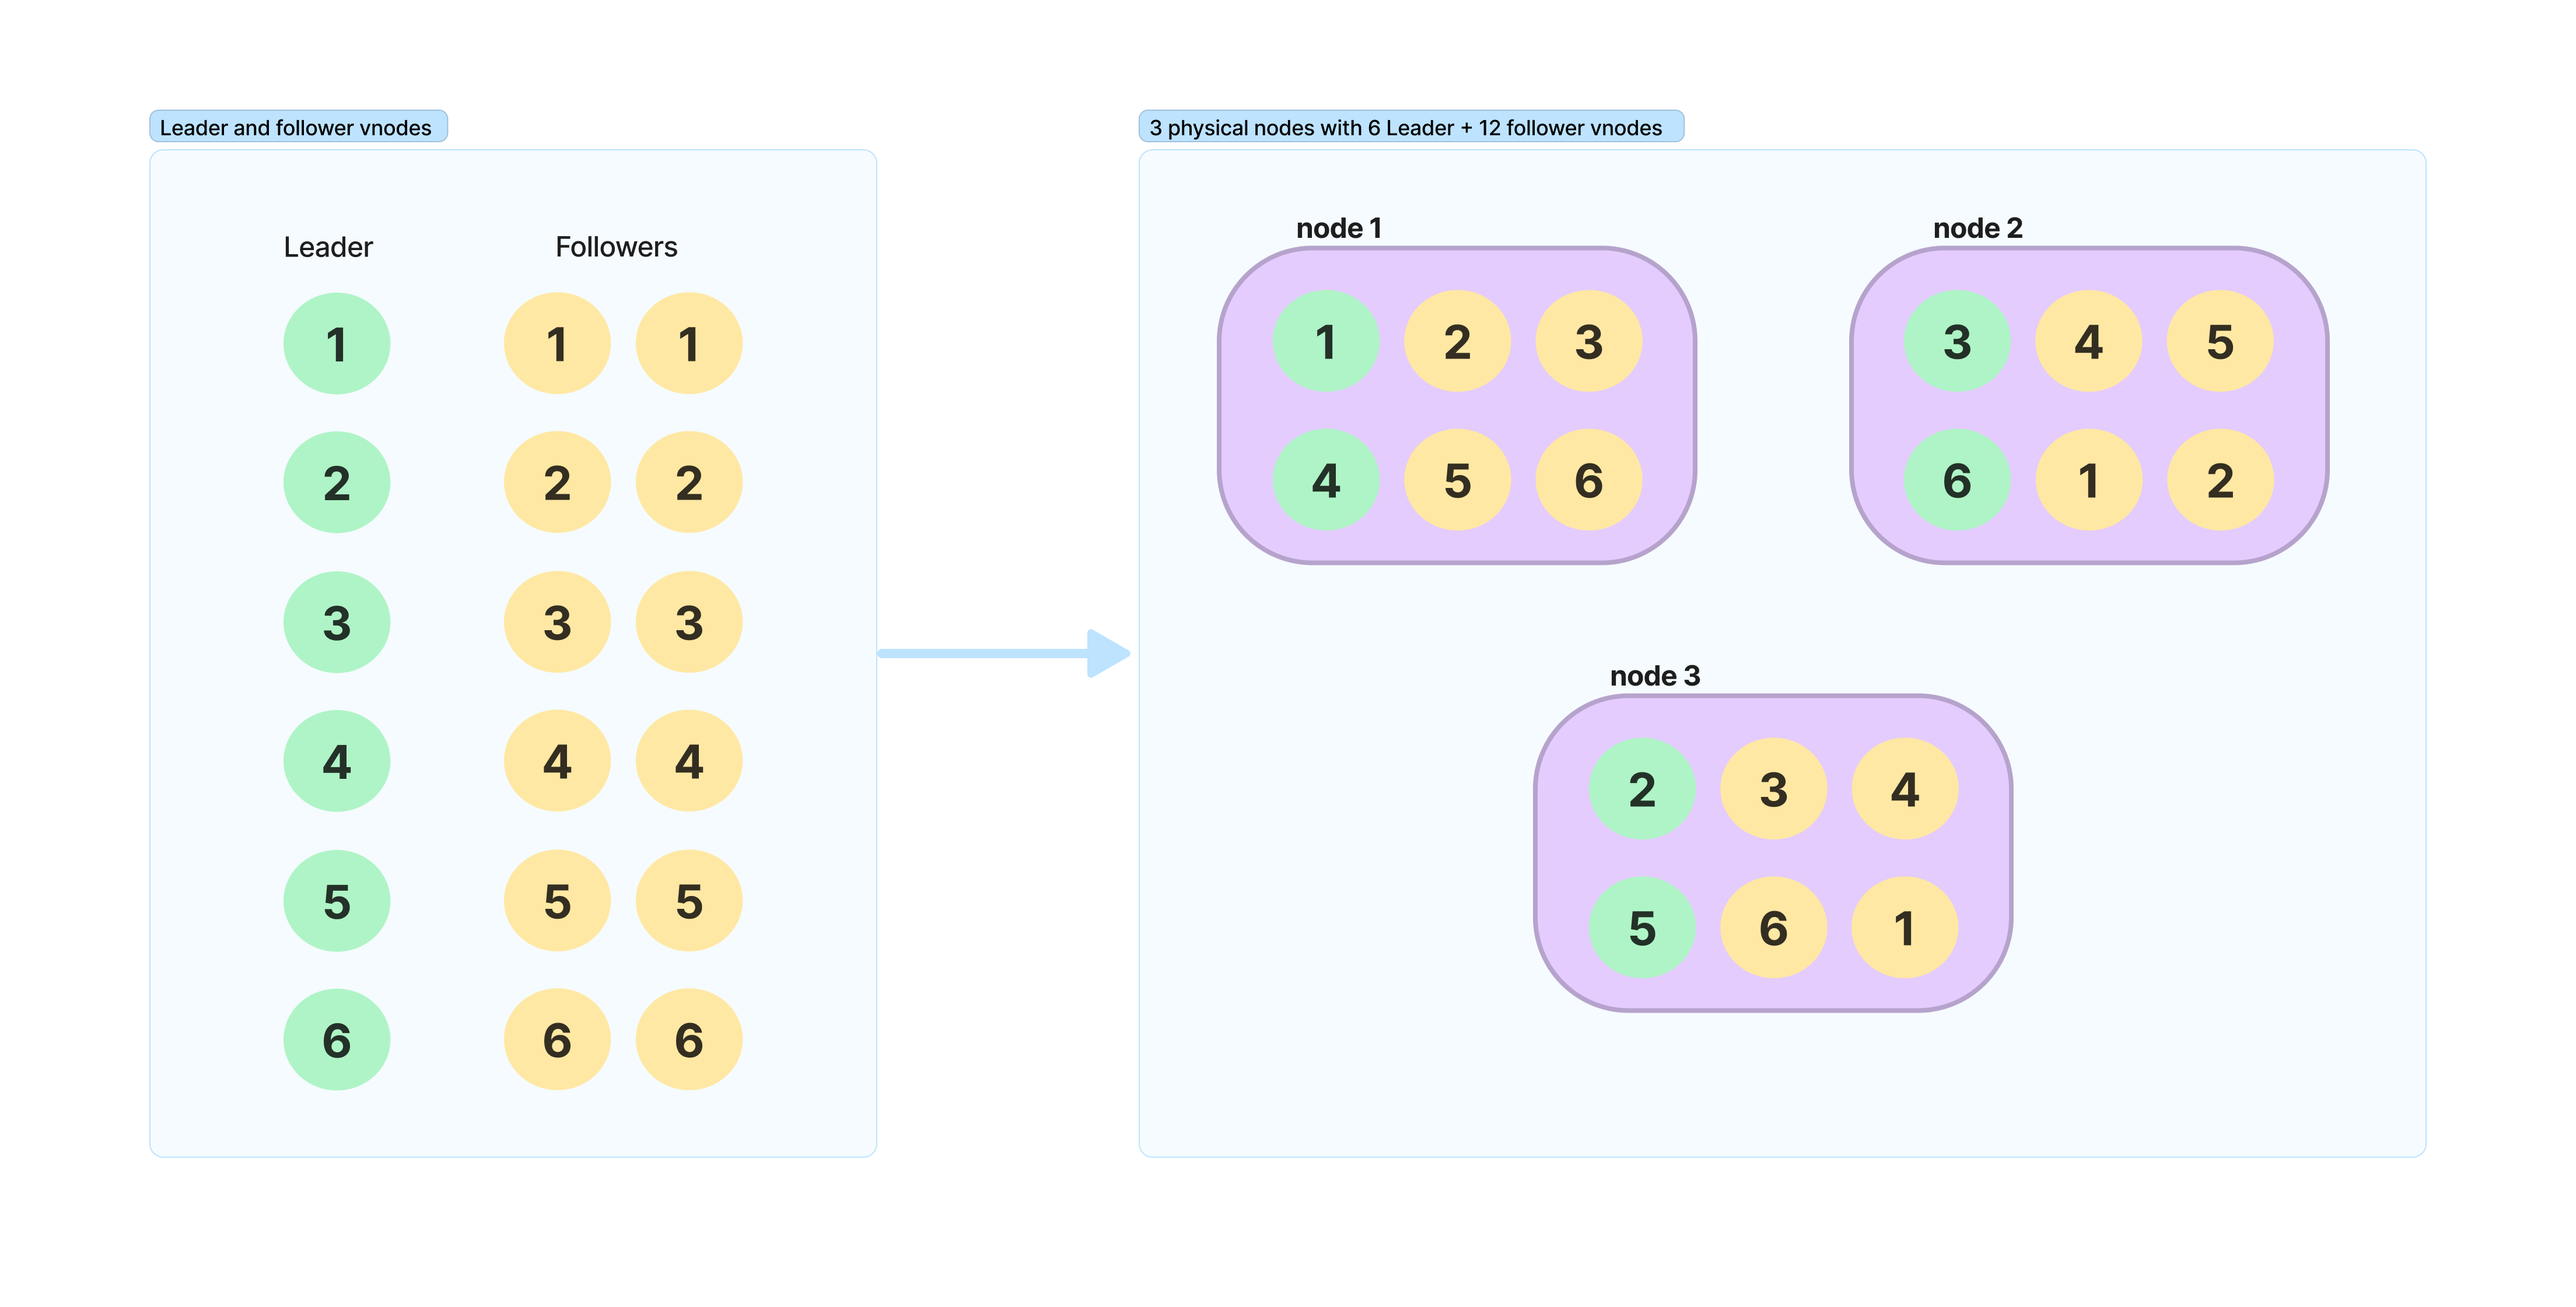
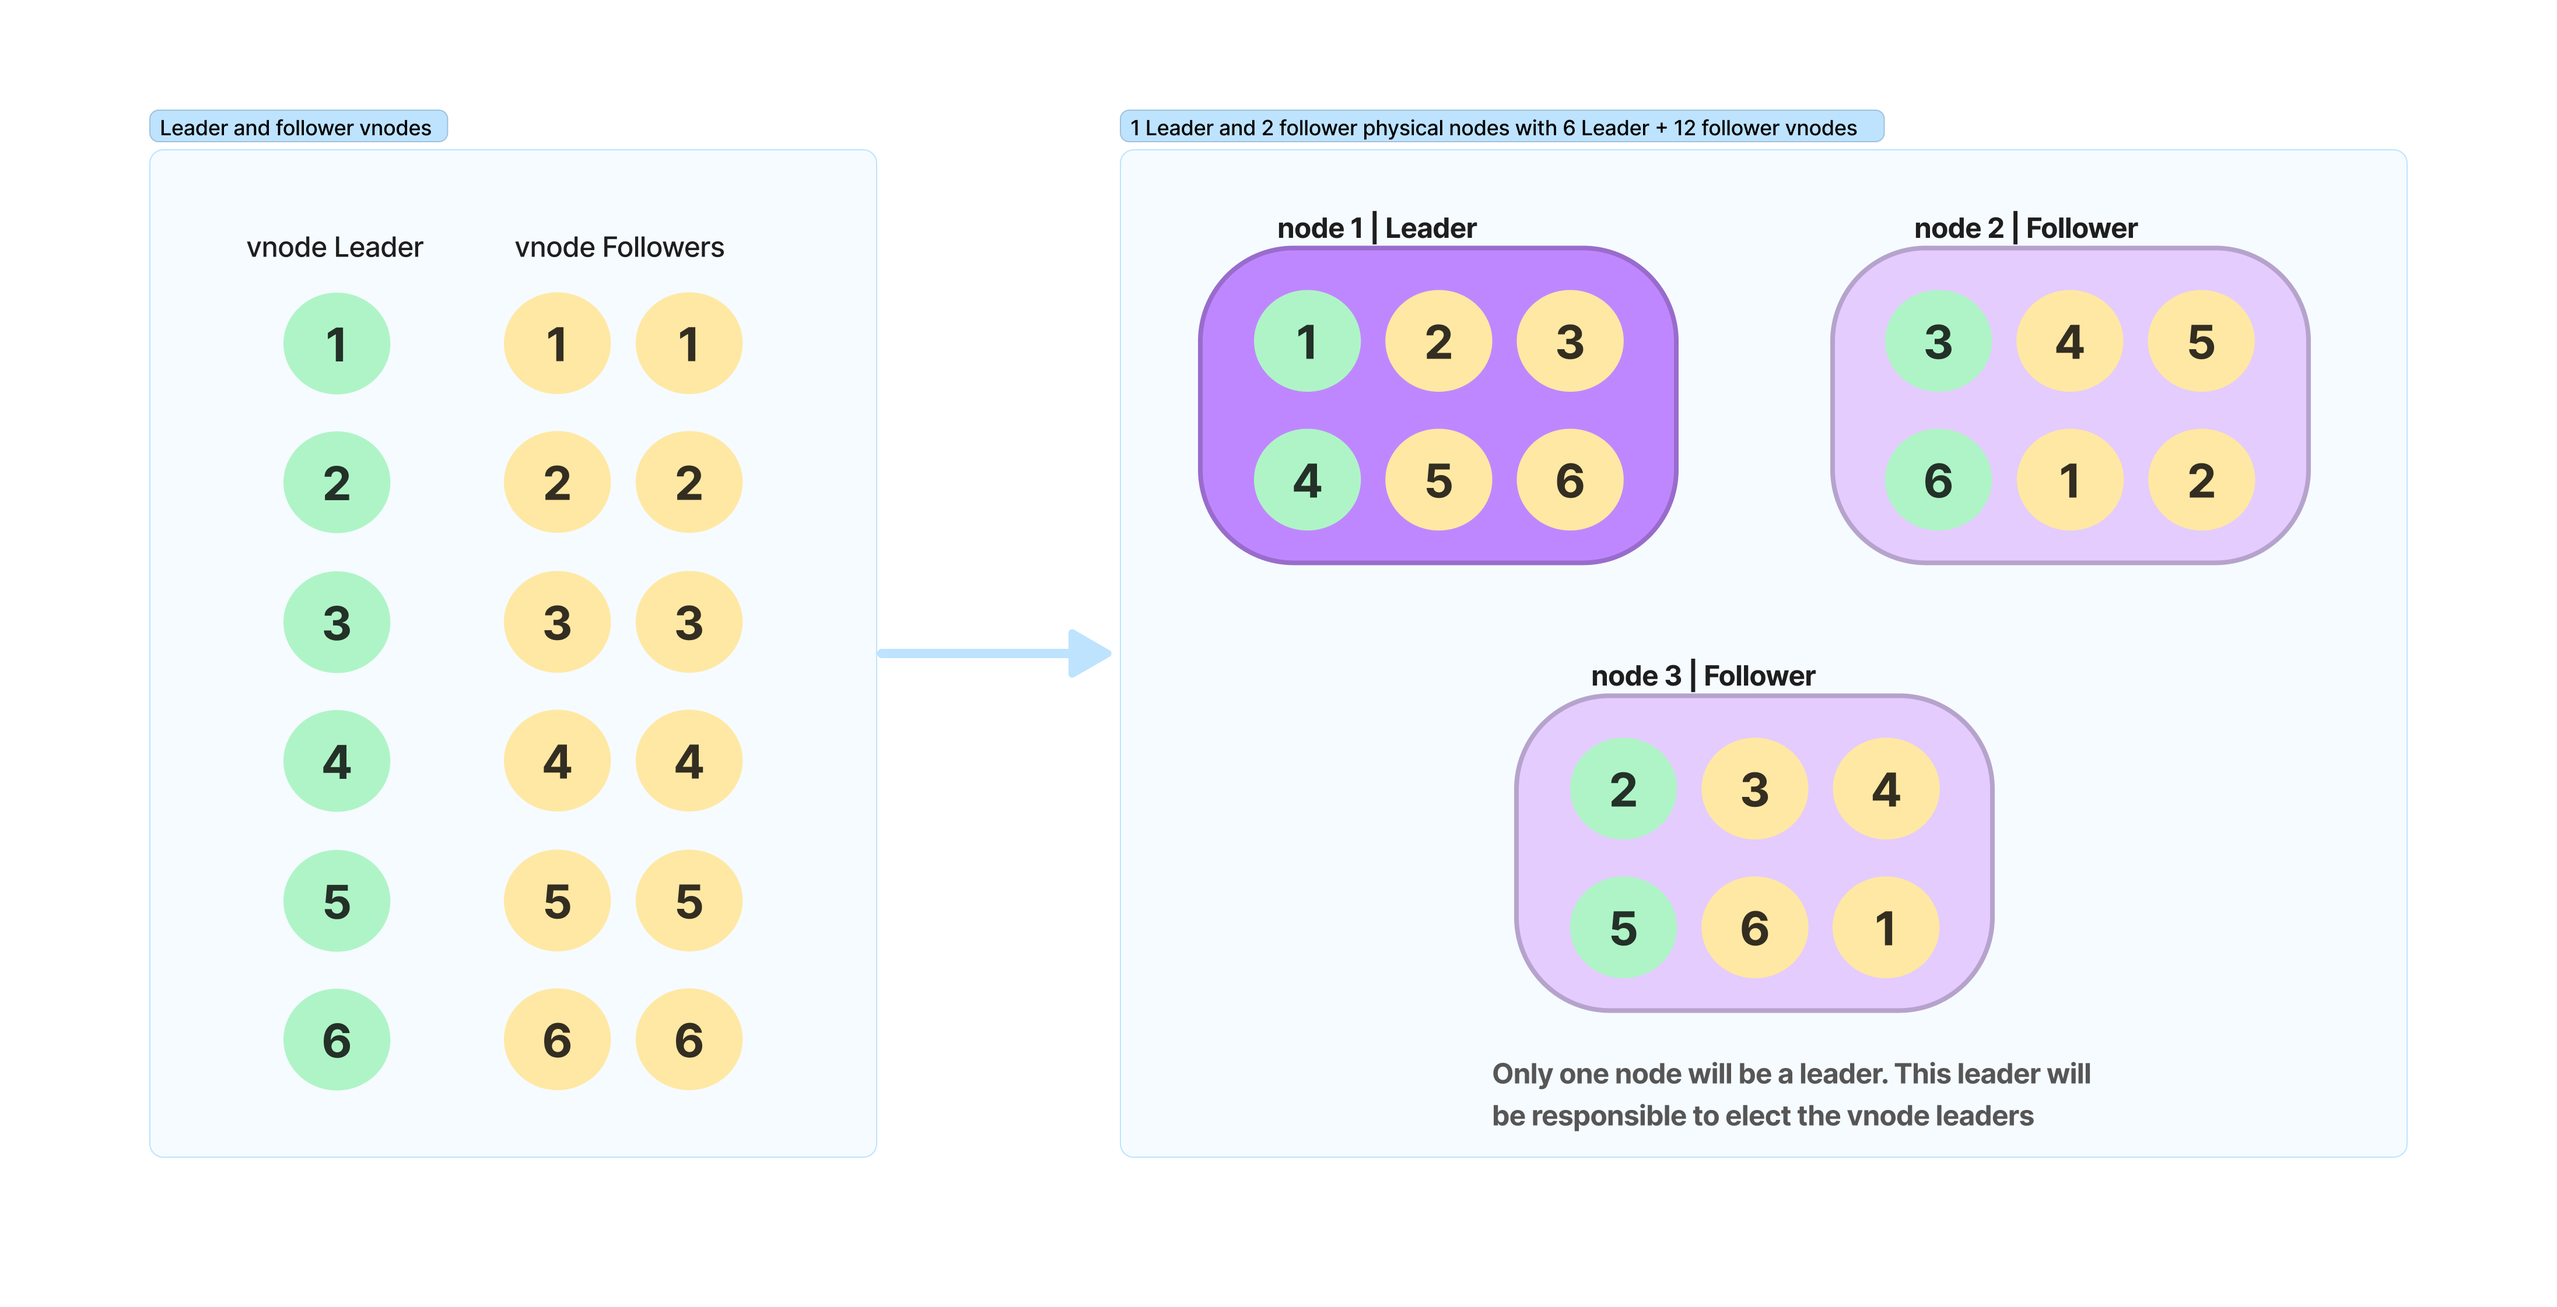
Added node leader doc

diff --git a/README.md b/README.md
@@ -1,19 +1,22 @@
 # Time Machine 🐓
-A distributed, fault tolerant scheduler that can potentially scale to millions of jobs. 
+A distributed, fault tolerant scheduler database that can potentially scale to millions of jobs. 
 
 The idea is to build it with a storage layer based on B+tree or LSM-tree implementation, consistent hashing for load balancing, and raft for consensus.
 
 ## 🧬 Documentation
-- [🚀 Purpose](./docs/Purpose.md)
-    - [🚣 Why are we building this ?](./docs/Purpose.md#🚣-why-are-we-building-this)
-    - [🚜 What does it take ?](./docs/Purpose.md#🚜-what-does-it-take)
-- [🔮 Architecture](./docs/Architecture.md)
+- [Purpose](./docs/Purpose.md)
+    - [Why are we building this ?](./docs/Purpose.md#-why-are-we-building-this)
+    - [What does it take ?](./docs/Purpose.md#🚜-what-does-it-take)
+- [Architecture](./docs/Architecture.md)
 - [Developer APIs](./docs/DevAPI.md)
-    - [⏰ Job APIs](./docs/DevAPI.md#⏰-job-apis)
-    - [🛺 Route APIs](./docs/DevAPI.md#🛺-route-apis)
+    - [Job APIs](./docs/DevAPI.md#-job-apis)
+    - [Route APIs](./docs/DevAPI.md#-route-apis)
 - [TODO](./docs/TODO.md)
 
-## 🧰 Stack
+## Roadmap 
+To be revealed soon 🍄
+
+## 🛺 Tech Stack
 * Storage layer
     * [BoltDB](https://github.com/boltdb/bolt) and [BBoltDB](https://github.com/etcd-io/bbolt)
     * [BadgerDB](https://github.com/dgraph-io/badger)

diff --git a/docs/Architecture.md b/docs/Architecture.md
@@ -1,7 +1,7 @@
 # 🔮 Architecture
 Time machine follows a Scylla-like ring architecture which is inspired by Apache Cassandra, Amazon Dynamo and Google BigTable.
 
-## 🏞 Diagram
+## 🦋 Diagram
 ![Architecture diagram](./images/vnode_distribution.png)
 
 ## ✏ Definitions
@@ -20,7 +20,8 @@ Time machine follows a Scylla-like ring architecture which is inspired by Apache
 ### Actors
 * `creator` - the service which created this job
 * `recipient` - the service which receives the trigger. Currently, only REST Webhook is supported
-* `vnode-leader` - the leader elected to trigger jobs for a particular time slot.
+* `node leader` - The leader node. The leader will be selected based on raft consensus algorithm
+* `vnode-leader` - the leader vnode elected to trigger jobs for a particular time slot among the vnode replicas. This ensures true distributed nature of the scheduler
 * `admin` - a human who has special privileges to manually trigger compaction, rebalance etc. These operations are supposed to be executed with care under low-traffic conditions. I'm sorry, robots aren't allowed.
 
 ## 🎰 Behaviour

diff --git a/docs/Refer.md b/docs/Refer.md
@@ -1,10 +1,18 @@
 # 🔭 References
 
-* http://thesecretlivesofdata.com/raft/
+### Storage
 * https://dgraph.io/docs/badger/get-started/
 * https://dgraph.io/blog/post/badger/
 * https://github.com/cockroachdb/pebble/blob/master/docs/rocksdb.md
+
+### Protocols
 * https://github.com/hashicorp/serf
-* https://github.com/sandglass/sandglass
+
+### Raft
 * https://github.com/hashicorp/raft
+* https://yusufs.medium.com/creating-distributed-kv-database-by-implementing-raft-consensus-using-golang-d0884eef2e28
+* http://thesecretlivesofdata.com/raft/
+
+### Misc
+* https://github.com/sandglass/sandglass
 * https://github.com/qichengzx/m2

diff --git a/docs/DevAPI.md b/docs/DevAPI.md
@@ -87,7 +87,7 @@ Response 400:
 }
 ```
 
-## 🛺 Route APIs
+## ☎ Route APIs
 
 ### Create a route
 `POST /route/:db`
